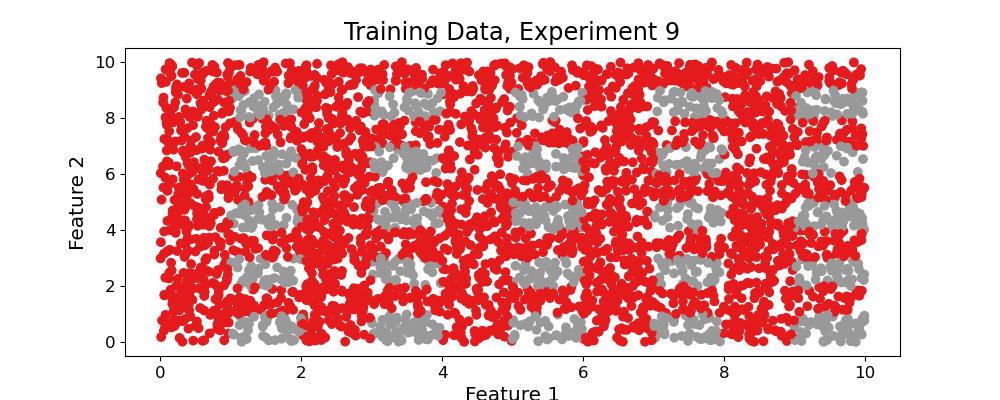
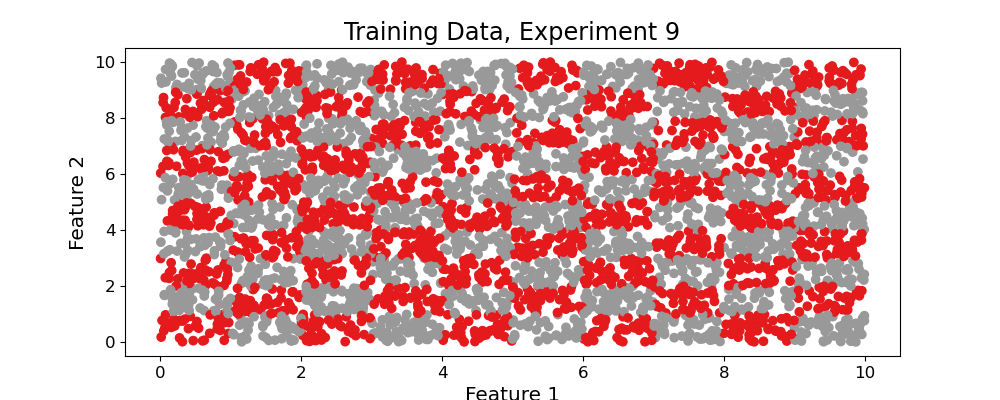
updating data again

diff --git a/experiments/set_9_checkerboard.py b/experiments/set_9_checkerboard.py
@@ -20,7 +20,7 @@ if __name__ == '__main__':
     np.random.seed(4736)
     two_var_x = np.random.random((10000, 2))
     two_var_x = two_var_x * 10
-    target = (np.floor(two_var_x[:, 0]) % 2) * (np.ceil(two_var_x[:, 1]) % 2)
+    target = (np.floor(two_var_x[:, 0]) + np.floor(two_var_x[:, 1])) % 2
 
     # Create train, val, test sets
     x_train_val, x_test, y_train_val, y_test = train_test_split(two_var_x, target, test_size = 0.3, random_state = 133523)
